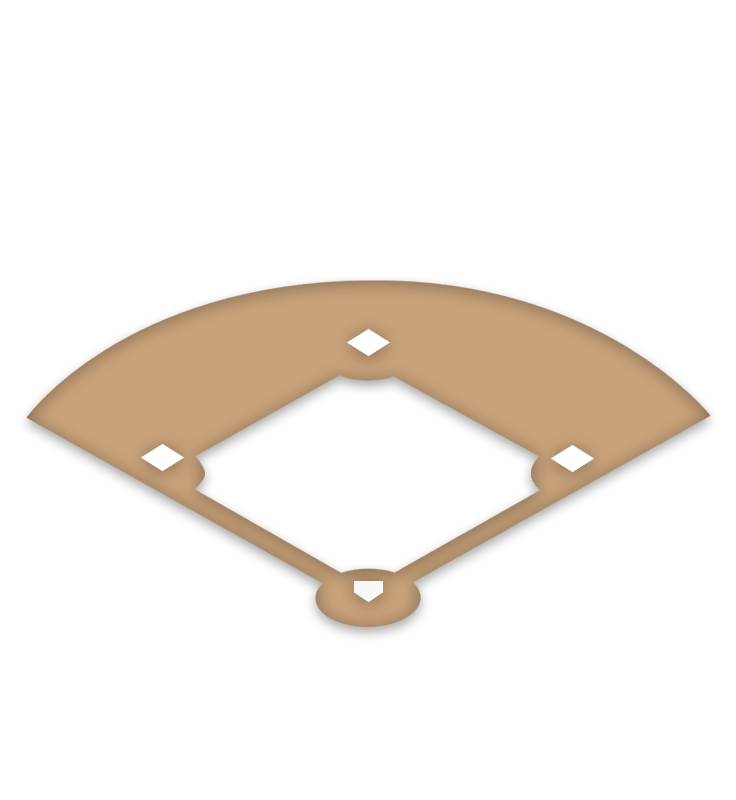
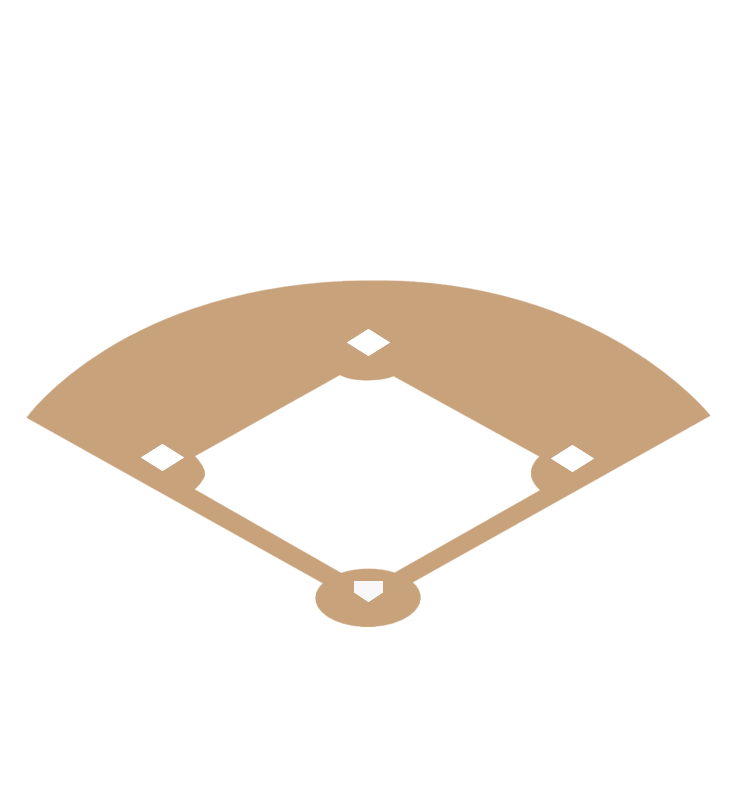
Update animations

diff --git a/frontend/src/components/games/GameField.tsx b/frontend/src/components/games/GameField.tsx
@@ -71,8 +71,20 @@ type GameFieldProps = {
     /** Skips the diamond art, for callers that paint `FieldArt` themselves so it can outlive this
      *  field (e.g. stay put while the field's contents crossfade). */
     hideFieldArt?: boolean;
+    /** Drops the players onto the field with a staggered bounce when this field mounts (e.g. a new
+     *  game swapped in). Markers that show up later enter normally. */
+    plopIn?: boolean;
     className?: string;
 };
+
+/** `plopIn` timing — the duration must match `.field-plop` in index.css. Pitcher lands first,
+ *  then the batter, then runners in base order. */
+const PLOP_DURATION_MS = 550;
+const PLOP_STAGGER_MS = 90;
+const PLOP_ORDER: Record<RunnerSpot, number> = { plate: 1, first: 2, second: 3, third: 4, home: 4 };
+/** When the last `plopIn` marker has landed. */
+export const FIELD_PLOP_MS = PLOP_DURATION_MS + Math.max(...Object.values(PLOP_ORDER)) * PLOP_STAGGER_MS;
+const plopDelay = (order: number): React.CSSProperties => ({ animationDelay: `${order * PLOP_STAGGER_MS}ms` });
 
 /**
  * The art (736x800) is mostly transparent padding — the field itself occupies x 17-720,
@@ -566,8 +578,18 @@ function LastPlaySummary({ play }: { play: PlayEntry }) {
     );
 }
 
-export default function GameField({ game, cardMap, onCardSelect, expanded = false, onToggleExpanded, isLoadingCards, transition, pendingPlay, phase = "idle", lastPlay, advantage, playbackSpeed, onPlayClick, showGrassBackdrop = false, hideFieldArt = false, className = "" }: GameFieldProps) {
+export default function GameField({ game, cardMap, onCardSelect, expanded = false, onToggleExpanded, isLoadingCards, transition, pendingPlay, phase = "idle", lastPlay, advantage, playbackSpeed, onPlayClick, showGrassBackdrop = false, hideFieldArt = false, plopIn = false, className = "" }: GameFieldProps) {
     const situation = game.situation;
+
+    // Markers mounted during the plop window get the drop; the class comes off once everyone has
+    // landed so later arrivals use their own entrances.
+    const [isPlopping, setIsPlopping] = useState(plopIn);
+    useEffect(() => {
+        if (!plopIn) return;
+        const timer = window.setTimeout(() => setIsPlopping(false), FIELD_PLOP_MS);
+        return () => window.clearTimeout(timer);
+    }, [plopIn]);
+    const plopClass = isPlopping ? "field-plop" : "";
     // if (!situation) return null;
 
     // The fielding side is whichever team isn't batting — used for the pitcher's line score.
@@ -619,8 +641,8 @@ export default function GameField({ game, cardMap, onCardSelect, expanded = fals
                                     aria-hidden={!isVisible}
                                     className={`absolute -translate-x-1/2 -translate-y-1/2 transition-[opacity,transform] duration-300 ease-out ${
                                         isVisible ? "opacity-100 scale-100" : "pointer-events-none scale-75 opacity-0"
-                                    }`}
-                                    style={{ ...atPercent(DEFENSE_SPOTS[slot]), zIndex: isBattery ? FIELD_Z.battery : undefined }}
+                                    } ${isVisible ? plopClass : ""}`}
+                                    style={{ ...atPercent(DEFENSE_SPOTS[slot]), zIndex: isBattery ? FIELD_Z.battery : undefined, ...plopDelay(isBattery ? 0 : 1) }}
                                 >
                                     <FieldMarker
                                         player={player}
@@ -646,7 +668,7 @@ export default function GameField({ game, cardMap, onCardSelect, expanded = fals
 
                     {/* Pitcher without an alignment (sim, or a defense the feed hasn't set yet). */}
                     {!defense && situation?.pitcher && (
-                        <div className="absolute -translate-x-1/2 -translate-y-1/2" style={{ ...atPercent(DEFENSE_SPOTS.pitcher), zIndex: FIELD_Z.battery }}>
+                        <div className={`absolute -translate-x-1/2 -translate-y-1/2 ${plopClass}`} style={{ ...atPercent(DEFENSE_SPOTS.pitcher), zIndex: FIELD_Z.battery }}>
                             <FieldMarker
                                 player={situation.pitcher}
                                 role="P"
@@ -727,11 +749,13 @@ export default function GameField({ game, cardMap, onCardSelect, expanded = fals
                                     top: `${y}%`,
                                     zIndex: renderSpot === "plate" ? FIELD_Z.battery : FIELD_Z.runner,
                                     transitionDuration: `${posDur}ms, ${posDur}ms, ${opacityDur}ms, 300ms`,
+                                    ...plopDelay(PLOP_ORDER[occ.spot]),
                                 }}
                                 className={`
                                     absolute -translate-x-1/2 -translate-y-1/2
                                     transition-[left,top,opacity,transform] ease-in-out
                                     ${stateClass}
+                                    ${occ.presence === "leaving" ? "" : plopClass}
                                 `}
                             >
                                 <FieldMarker

diff --git a/frontend/src/components/home/HomeGameReel.tsx b/frontend/src/components/home/HomeGameReel.tsx
@@ -20,7 +20,7 @@ import { SeededRandom, sliceScoringHalfInning, withSyntheticRolls } from "../../
 import type { GameTimeline } from "../../domain/timeline";
 import { useGamePlayback } from "../../hooks/useGamePlayback";
 import { usePrefersReducedMotion } from "../../hooks/usePrefersReducedMotion";
-import GameField, { FieldArt } from "../games/GameField";
+import GameField, { FIELD_PLOP_MS, FieldArt } from "../games/GameField";
 import { TeamChip } from "../shared/TeamChip";
 import { useSiteSettings } from "../shared/SiteSettingsContext";
 import { SHOWCASE_GAMES, type ShowcaseGame } from "./showcaseGames";
@@ -233,15 +233,23 @@ function ReelSegmentPlayer({ segment, isActive, autoplay, onDone, onCardSelect }
     const lastIndex = timeline.frames.length - 1;
     const isAtEnd = state.cursor === lastIndex && state.phase === "idle";
 
+    // The players plop onto the field as the segment mounts; hold the first pitch until they land.
+    const [hasLanded, setHasLanded] = useState(!autoplay);
+    useEffect(() => {
+        if (!autoplay) return;
+        const timer = window.setTimeout(() => setHasLanded(true), FIELD_PLOP_MS);
+        return () => window.clearTimeout(timer);
+    }, [autoplay]);
+
     // Play only while visible. Pausing interrupts the play in flight, so resuming replays it from
     // its pitch rather than mid-run. No cursor check here: on mount the cursor still reads as the
     // last frame (the hook parks it on frame 0 in its own effect), and playing at the end is a
     // no-op anyway.
     useEffect(() => {
         if (!autoplay) return;
-        if (isActive) controlsRef.current.play();
+        if (isActive && hasLanded) controlsRef.current.play();
         else controlsRef.current.pause();
-    }, [isActive, autoplay]);
+    }, [isActive, hasLanded, autoplay]);
 
     // Hold on the finished half-inning, then hand off to the next game.
     useEffect(() => {
@@ -298,6 +306,7 @@ function ReelSegmentPlayer({ segment, isActive, autoplay, onDone, onCardSelect }
                 advantage={advantage}
                 playbackSpeed={state.effectiveSpeed}
                 hideFieldArt
+                plopIn={autoplay}
             />
 
             <div className="mt-2 flex items-center justify-between gap-2">

diff --git a/frontend/src/index.css b/frontend/src/index.css
@@ -593,6 +593,38 @@
 }
 .result-pop { animation: result-pop 300ms ease-out; }
 
+/* A field marker dropped onto a freshly mounted `GameField` (`plopIn`): falls in from above,
+   squashes on landing, springs back, and kicks up a dust ring. `transform` only, so it composes
+   with the marker's Tailwind `translate`/`scale` positioning. `backwards` rather than `both` so
+   the marker's own opacity/scale classes take over again once it lands. GameField's PLOP_* timing
+   constants must match the duration here. */
+.field-plop { animation: field-plop 550ms cubic-bezier(0.34, 1.2, 0.64, 1) backwards; }
+.field-plop::after {
+    content: '';
+    position: absolute;
+    left: 5%;
+    right: 5%;
+    bottom: -6px;
+    height: 12px;
+    border-radius: 50%;
+    border: 2px solid rgba(255, 255, 255, 0.75);
+    pointer-events: none;
+    opacity: 0;
+    animation: field-plop-dust 450ms ease-out backwards;
+    animation-delay: inherit;
+}
+@keyframes field-plop {
+    0%   { opacity: 0; transform: translateY(-70%) scale(1.25); }
+    45%  { opacity: 1; transform: translateY(0) scale(1.1, 0.88); }
+    65%  { transform: translateY(-6%) scale(0.96, 1.05); }
+    100% { opacity: 1; transform: translateY(0) scale(1); }
+}
+@keyframes field-plop-dust {
+    0%, 40% { opacity: 0;   transform: scale(0.4); }
+    50%     { opacity: 0.9; transform: scale(0.7); }
+    100%    { opacity: 0;   transform: scale(1.35); }
+}
+
 /* Card highlight for the side that won the advantage on a sim plate appearance (see
    `AdvantageBadge`). Unlayered on purpose: it has to beat the card's own `shadow-xl` utility. */
 .card-advantage {
@@ -667,6 +699,7 @@
 }
 
 @media (prefers-reduced-motion: reduce) {
+    .field-plop, .field-plop::after,
     .card-advantage, .card-advantage::after, .advantage-badge-pop,
     .chart-cell-landed, .chart-cell-landed > * { animation: none; }
 }
